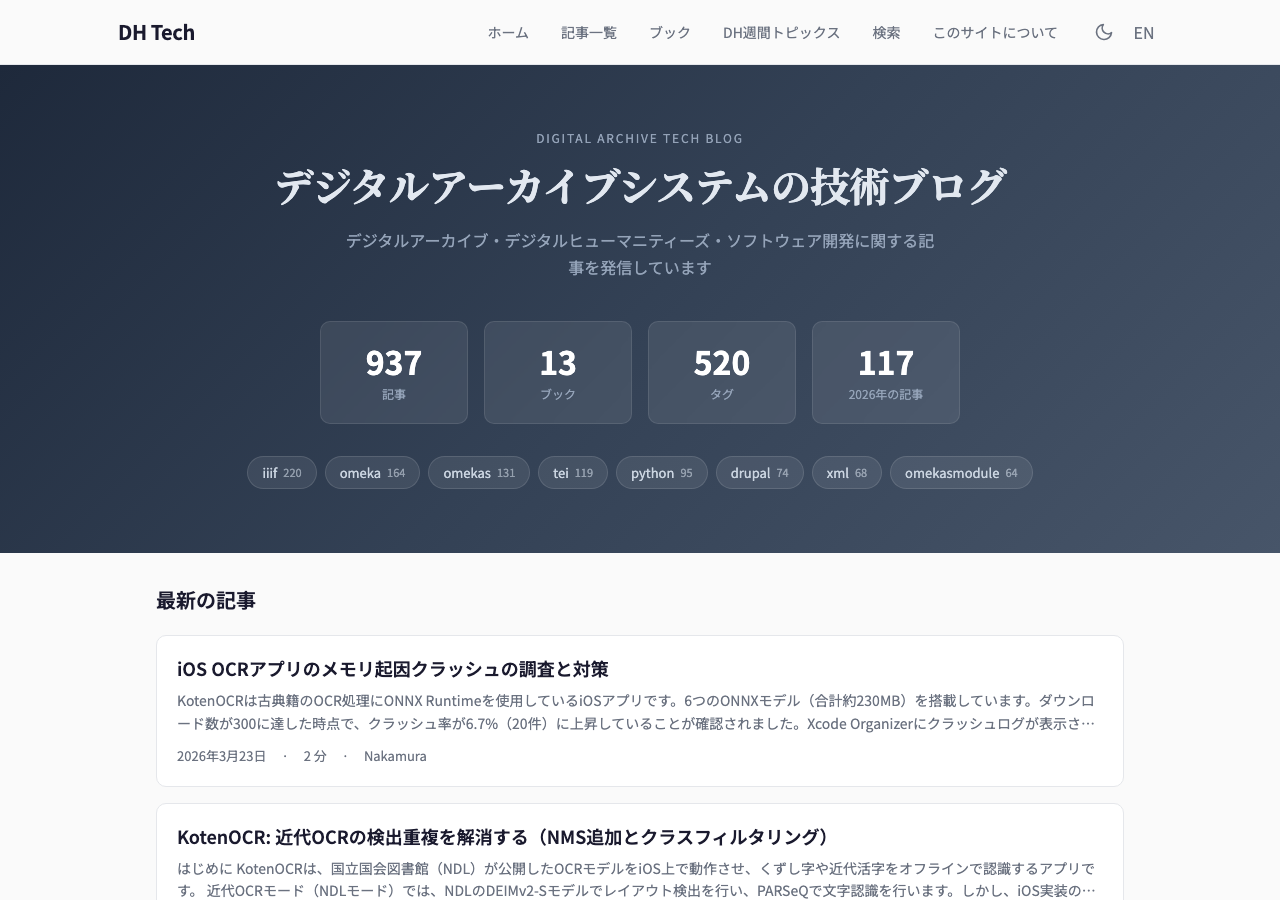
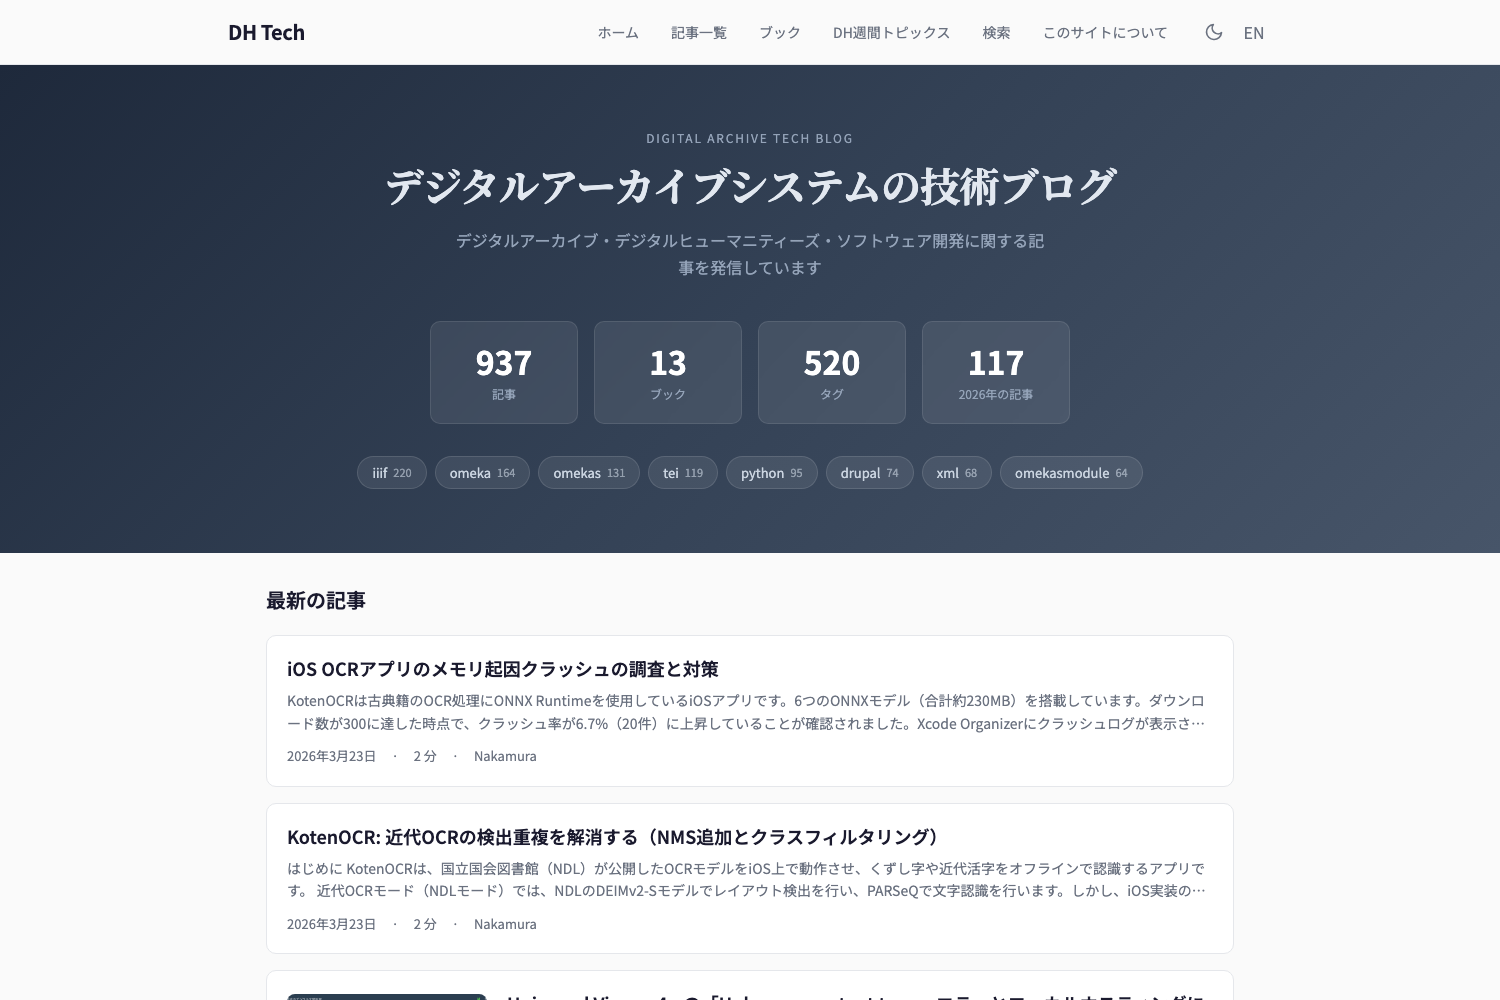
fix: update screenshots to 1500x1000 (3:2) for Hugo gallery, add demosite URL
- Screenshot: 1500x1000px (was 1280x900), meets Hugo themes gallery minimum
- Thumbnail: 900x600px (3:2 ratio)
- README: use absolute GitHub raw URL for screenshot image
- theme.toml: set demosite to nakamura196.pages.dev

diff --git a/README.md b/README.md
@@ -6,7 +6,7 @@
 
 A modern Hugo theme built with Tailwind CSS v4. Clean design with dark/light mode, multilingual support (45+ languages), sticky sidebar TOC, full-text search, and a books content type.
 
-![Screenshot](images/screenshot.png)
+![Screenshot](https://raw.githubusercontent.com/nakamura196/hugo-theme-flavor/main/images/screenshot.png)
 
 ---
 
